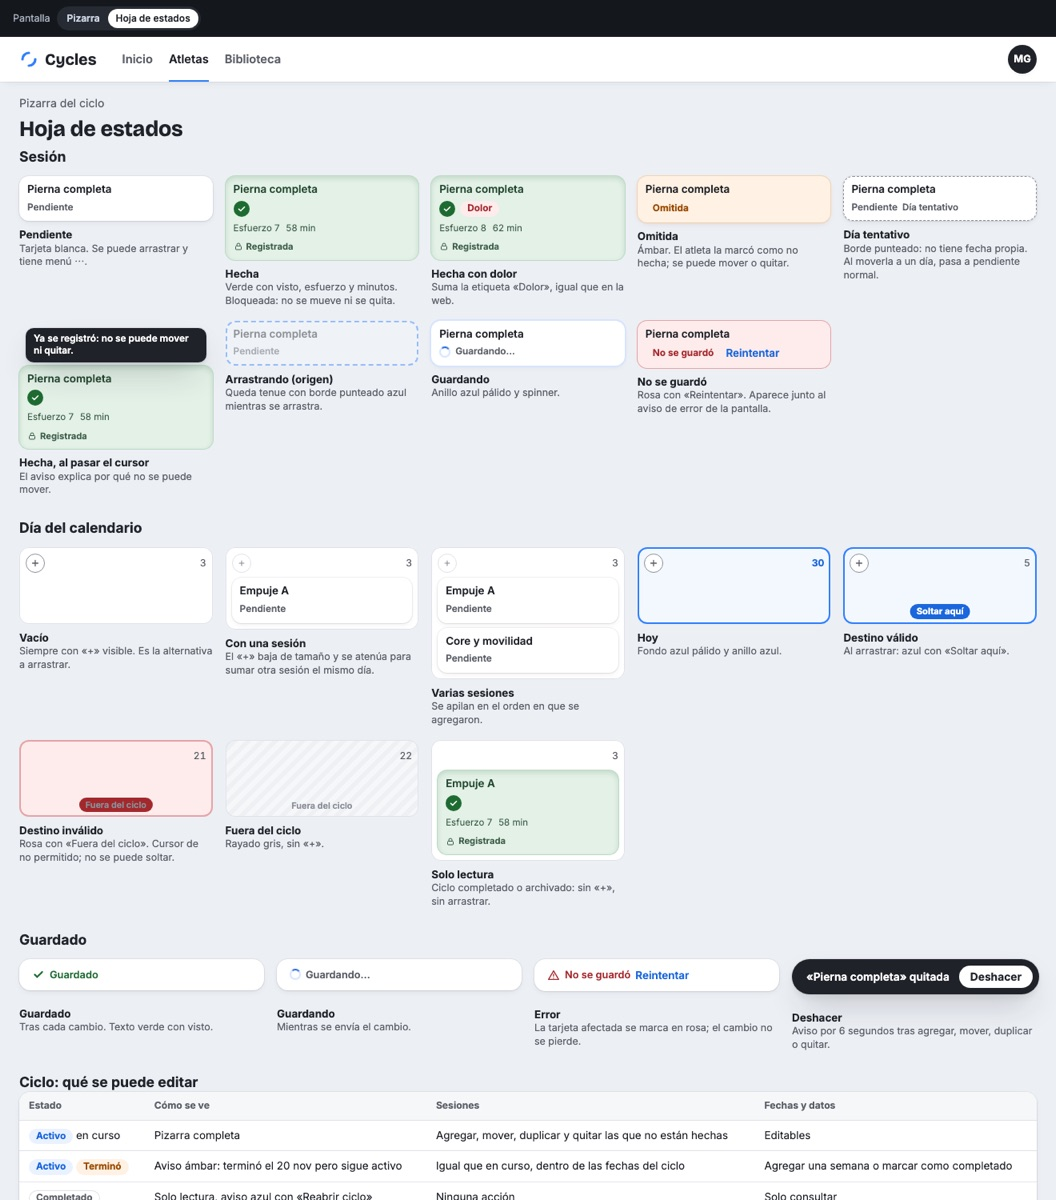
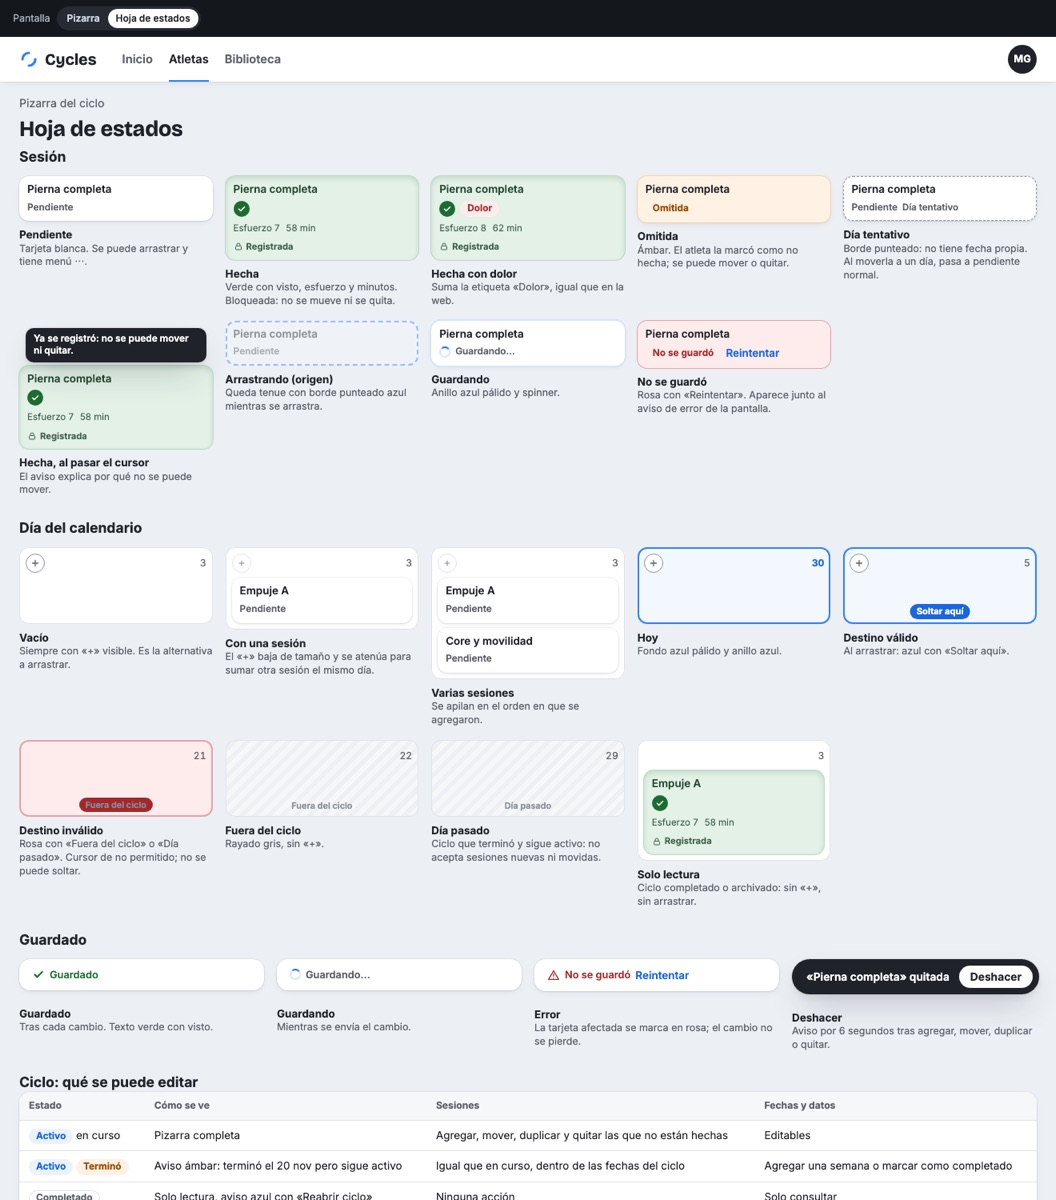
Aprueba la variante A de la pizarra y registra el borrado lógico y los días pasados (CYC-172)

diff --git a/docs/diseno/ciclos-pizarra/propuestas.html b/docs/diseno/ciclos-pizarra/propuestas.html
@@ -144,6 +144,8 @@ main{padding:16px 24px 64px}
 .dc.ok::after,.dc.bad::after{position:absolute;left:50%;bottom:6px;transform:translateX(-50%);font-size:.7rem;font-weight:700;border-radius:999px;padding:1px 8px;white-space:nowrap;pointer-events:none}
 .dc.ok::after{content:"Soltar aquí";background:var(--blue);color:#fff}
 .dc.bad::after{content:"Fuera del ciclo";background:var(--pain-ink);color:#fff}
+.dc[data-why=past].out::after,.dc[data-why=past].bad::after{content:"Día pasado"}
+.dc.has.out::after{display:none}
 .dc.out::after{content:"Fuera del ciclo";position:absolute;left:50%;bottom:6px;transform:translateX(-50%);font-size:.68rem;font-weight:600;color:var(--ctl);white-space:nowrap}
 .dc.oksel{background:var(--b50);box-shadow:inset 0 0 0 2px var(--brand)}
 
@@ -334,13 +336,13 @@ function sesCard(s,o={}){
   return `<div class="${cls}" ${drag?`draggable="true" data-ses="${s.id}"`:''} tabindex="0" role="group" aria-label="${s.n}, ${st2}"><div class="nr"><b>${s.n}</b>${menu}</div><div class="st">${st}</div>${facts}${lock}</div>`;
 }
 function dayCell(w,d,ov={}){
-  const i=idx(w,d), out=i>endIdx, list=sessions().filter(s=>s.w===w&&s.d===d);
+  const i=idx(w,d), past=S.ciclo==='vencido'&&i<=endIdx, out=i>endIdx||past, list=sessions().filter(s=>s.w===w&&s.d===d);
   const x=dt(i);
   const dragging=S.estado==='arrastrando';
-  const cls=['dc',i===TODAY&&'today',out&&!(dragging)&&'out',out&&dragging&&'bad out',ro()&&'ro',ov.ok&&'ok'].filter(Boolean).join(' ');
+  const cls=['dc',i===TODAY&&'today',out&&!(dragging)&&'out',out&&dragging&&'bad out',ro()&&'ro',list.length&&'has',ov.ok&&'ok'].filter(Boolean).join(' ');
   const plus=(out||ro())?'':`<button class="plus${list.length?' faint':''}" data-add="${w}:${d}" aria-haspopup="dialog" aria-expanded="${S.ver==='agregar'&&S.ctx.w===w&&S.ctx.d===d}" aria-label="${list.length?'Agregar otra rutina':'Agregar rutina'} el ${DOWL[d]} ${x.getDate()}">${I.plus}</button>`;
   const cards=list.map(s=>sesCard(s,{lift:dragging&&s.id==='s8',save:S.estado==='guardando'&&s.id==='s4',fail:S.estado==='error'&&s.id==='s8'})).join('');
-  return `<div class="${cls}" data-cell="${w}:${d}" data-out="${out?1:0}"><div class="top">${plus||'<span></span>'}<span class="dn">${x.getDate()}</span></div><div class="cards">${cards}</div></div>`;
+  return `<div class="${cls}" data-cell="${w}:${d}" data-out="${out?1:0}" data-why="${past?'past':'out'}"><div class="top">${plus||'<span></span>'}<span class="dn">${x.getDate()}</span></div><div class="cards">${cards}</div></div>`;
 }
 function weekRow(w){
   const list=sessions().filter(s=>s.w===w), n=list.length, h=list.filter(s=>s.st==='hecha').length;
@@ -455,8 +457,9 @@ function catalogo(){
    ${fig(cell('',topPlus(true)+`<div class="cards">${c({n:'Empuje A'})}${c({n:'Core y movilidad'})}</div>`),'Varias sesiones','Se apilan en el orden en que se agregaron.')}
    ${fig(cell('today',`<div class="top"><button class="plus" aria-label="Agregar rutina">${I.plus}</button><span class="dn">30</span></div>`),'Hoy','Fondo azul pálido y anillo azul.')}
    ${fig(cell('ok',`<div class="top"><button class="plus">${I.plus}</button><span class="dn">5</span></div>`),'Destino válido','Al arrastrar: azul con «Soltar aquí».')}
-   ${fig(cell('bad out',`<div class="top"><span></span><span class="dn">21</span></div>`),'Destino inválido','Rosa con «Fuera del ciclo». Cursor de no permitido; no se puede soltar.')}
+   ${fig(cell('bad out',`<div class="top"><span></span><span class="dn">21</span></div>`),'Destino inválido','Rosa con «Fuera del ciclo» o «Día pasado». Cursor de no permitido; no se puede soltar.')}
    ${fig(cell('out',`<div class="top"><span></span><span class="dn">22</span></div>`),'Fuera del ciclo','Rayado gris, sin «+».')}
+   ${fig(cell('out',`<div class="top"><span></span><span class="dn">29</span></div>`,'data-why="past"'),'Día pasado','Ciclo que terminó y sigue activo: no acepta sesiones nuevas ni movidas.')}
    ${fig(cell('ro',`<div class="top"><span></span><span class="dn">3</span></div><div class="cards">${c({n:'Empuje A',st:'hecha',esf:7,min:58})}</div>`),'Solo lectura','Ciclo completado o archivado: sin «+», sin arrastrar.')}
   </div>
   <h2>Guardado</h2><div class="cat" style="grid-template-columns:repeat(auto-fill,minmax(290px,1fr))">

diff --git a/docs/diseno/ciclos-pizarra/README.md b/docs/diseno/ciclos-pizarra/README.md
@@ -1,7 +1,7 @@
 ---
 type: design
 parent: "[[PRD-RutinasYProgramacion]]"
-status: proposed
+status: approved
 tags: [diseno, ciclos, pizarra, calendario, coach]
 created: 2026-10-28
 updated: 2026-10-28
@@ -9,7 +9,7 @@ updated: 2026-10-28
 
 # Edición de ciclos como pizarra (CYC-172)
 
-> **Propuesta de diseño, sin construir.** El calendario del ciclo se convierte en una **pizarra**: el coach arrastra rutinas a los días, mueve, duplica y quita sesiones, y crea rutinas nuevas sin salir de la ventana. **Es solo para el coach**: el atleta sigue viendo su ciclo semana a semana, sin arrastrar ni editar.
+> **Diseño aprobado el 2026-10-28 (variante A), sin construir.** El calendario del ciclo se convierte en una **pizarra**: el coach arrastra rutinas a los días, mueve, duplica y quita sesiones, y crea rutinas nuevas sin salir de la ventana. **Es solo para el coach**: el atleta sigue viendo su ciclo semana a semana, sin arrastrar ni editar.
 
 ## Cómo verla
 
@@ -26,9 +26,15 @@ En «Normal» la maqueta funciona de verdad: arrastra una rutina a un día, arra
 
 ## Decisiones tomadas (2026-10-28)
 
+0. **Variante A (panel lateral).** La B queda descartada y se deja en la maqueta solo como referencia.
+
 1. **La pizarra reemplaza la vista Ciclo** de la ficha del atleta (`/athletes/:id`), donde ya vive el calendario desde CYC-171. El panel de rutinas vive dentro de esa vista.
 2. **Autoguardado.** Cada gesto (soltar, mover, duplicar, quitar) se guarda al instante. Un indicador en el encabezado dice **Guardando… / Guardado / No se guardó (Reintentar)**, y cada cambio trae un aviso con **Deshacer** por 6 segundos. No hay botón Guardar.
 3. **Creador rápido de rutinas** en un cajón lateral, con lo mínimo (nombre, ejercicios, series y repeticiones). **Cualquier especificación adicional (peso, descanso, repeticiones en reserva) se captura en una ventana emergente** «Detalles del ejercicio», con los mismos campos y etiquetas del editor de rutinas de la web. Un enlace «Abrir en el editor completo» queda para todo lo demás. Un botón «Agrupar en bloque» deshabilitado con la etiqueta «Pronto» reserva el lugar de las superseries (CYC-108 y CYC-109).
+
+4. **Quitar una sesión es un borrado lógico.** La sesión se marca como quitada y deja de verse, pero no se destruye: **Deshacer** la restaura con todos sus ajustes de ejercicios. Una sesión quitada no aparece en ninguna lista (calendario del coach, «Hoy» y la app del atleta, seguimiento, avisos); su purga definitiva queda para la construcción (propuesta: pasadas 24 horas).
+5. **Un ciclo que terminó y sigue activo no acepta sesiones en días pasados.** Todos sus días salen con la etiqueta «Día pasado», sin «+», y no aceptan soltar. Para seguir planificando, el coach usa «Agregar una semana» o marca el ciclo como completado.
+6. **En tablet y táctil se edita con el «+» y el menú ⋯**; no se construye arrastre con el dedo. El arrastre es solo para ratón.
 
 ## La pantalla
 
@@ -58,9 +64,9 @@ En «Normal» la maqueta funciona de verdad: arrastra una rutina a un día, arra
 | **Sin arrastrar** | El «+» de cada día abre un popover con buscador de rutinas; elegir una la agrega. Funciona con teclado y táctil. Cada rutina del panel también se activa con Enter. |
 | **Mover una sesión** | Arrastrarla a otro día o semana, o menú ⋯ → «Mover a otro día…» (elige semana y día). |
 | **Duplicar** | Menú ⋯ → «Duplicar en otro día…». |
-| **Quitar** | Menú ⋯ → «Quitar de este día». Sin confirmación bloqueante: se quita y aparece el aviso con **Deshacer**. |
+| **Quitar** | Menú ⋯ → «Quitar de este día». Sin confirmación bloqueante: se quita (borrado lógico) y aparece el aviso con **Deshacer**, que la restaura. |
 | **Varias sesiones por día** | Se apilan en la celda en el orden en que se agregaron. El «+» pequeño agrega otra. |
-| **Soltar fuera del ciclo** | Los días fuera de Inicio–Fin salen rayados («Fuera del ciclo») y, al arrastrar, se tiñen de rosa y no aceptan la sesión. |
+| **Soltar fuera del ciclo** | Los días fuera de Inicio–Fin salen rayados («Fuera del ciclo») y, al arrastrar, se tiñen de rosa y no aceptan la sesión. En un ciclo que ya terminó, todos sus días son «Día pasado» y tampoco aceptan sesiones. |
 | **Otra semana** | Botón «Agregar una semana» bajo el calendario: mueve el fin del ciclo 7 días (avisa la nueva fecha) y tiene Deshacer. |
 | **Sesión hecha** | Bloqueada: no se arrastra, no tiene menú y su aviso dice «Ya se registró: no se puede mover ni quitar». |
 | **Crear rutina** | «Crear rutina nueva» abre el cajón (no cambia de página). «Guardar y usar» la agrega a la lista, lista para arrastrar. |
@@ -87,7 +93,7 @@ La pestaña **Hoja de estados** de la maqueta junta todos los estados visuales c
 | Estado | Cómo se ve | Sesiones | Fechas y datos |
 |---|---|---|---|
 | **Activo, en curso** | Pizarra completa | Agregar, mover, duplicar y quitar las que no están hechas | Editables |
-| **Activo, ya terminó** | Franja ámbar: «El ciclo terminó el 20 nov, pero sigue marcado como Activo» | Igual que en curso, dentro de las fechas | Botones «Marcar como completado» y «Agregar una semana» |
+| **Activo, ya terminó** | Franja ámbar: «El ciclo terminó el 20 nov, pero sigue marcado como Activo»; todos los días son «Día pasado» | Se pueden quitar y duplicar las pendientes, pero no agregar ni mover a días pasados | Botones «Marcar como completado» y «Agregar una semana» |
 | **Completado** | Solo lectura; franja azul con «Reabrir ciclo» | Ninguna acción | Solo consultar |
 | **Archivado** | Solo lectura; franja azul con «Reactivar ciclo» | Ninguna acción | Solo consultar |
 
@@ -122,19 +128,18 @@ Esto resuelve la incoherencia de hoy, donde el banner dice «El ciclo terminó»
 
 ## Preguntas abiertas
 
-1. **Variante:** A o B (se recomienda A).
-2. **Deshacer al quitar:** la sesión puede tener ajustes puntuales de ejercicios. ¿Se borra de verdad y «Deshacer» la vuelve a crear desde la rutina (se perderían esos ajustes) o se hace un borrado lógico durante unos segundos? Se recomienda lo segundo.
-3. **Ciclo que ya terminó y sigue activo:** ¿se permite soltar sesiones en días pasados? La propuesta lo permite, para ponerse al día.
-4. **Arrastre táctil en tablet:** ¿basta con el «+» y el menú, o se construye arrastre con el dedo (con una librería de arrastre o eventos propios)?
-5. **Duplicar una sesión ajustada:** ¿copia la sesión tal como quedó (con sus ejercicios modificados) o vuelve a partir de la rutina? La propuesta es copiar la sesión.
-6. **Editar una rutina desde la pizarra:** ¿se abre el mismo cajón con la rutina cargada? Se recomienda que sí; cambiarla afecta solo a las sesiones futuras.
+Las cuatro primeras se cerraron el 2026-10-28 (ver «Decisiones tomadas»). Quedan para la construcción:
+
+1. **Duplicar una sesión ajustada:** ¿copia la sesión tal como quedó (con sus ejercicios modificados) o vuelve a partir de la rutina? La propuesta es copiar la sesión.
+2. **Editar una rutina desde la pizarra:** ¿se abre el mismo cajón con la rutina cargada? Se recomienda que sí; cambiarla afecta solo a las sesiones futuras.
+3. **Purga del borrado lógico:** cuánto tiempo se conserva una sesión quitada antes de borrarse (propuesta: 24 horas) y cómo se limpia.
 
 ## Qué cambia para construirlo (solo la lista; nada de esto está hecho)
 
 **API**
 
 - **Mover una sesión:** hoy `PATCH /sessions/:id` no cambia la semana ni reordena los espacios. Debe aceptar una nueva `scheduledDate`, recalcular la semana y repartir los espacios con la misma regla que la creación por día (`reassignSlots`).
-- **Quitar una sesión:** hoy `DELETE /sessions/:id` responde 409 si tiene ejercicios (hay que quitarlos antes). Hace falta borrarla junto con sus ejercicios cuando no tiene registros, o un borrado lógico para el «Deshacer».
+- **Quitar una sesión (borrado lógico):** hoy `DELETE /sessions/:id` responde 409 si tiene ejercicios. Se agrega un campo `deletedAt` en la sesión: quitar lo marca, **Deshacer** lo limpia (p. ej. `POST /sessions/:id/restore`) y todas las consultas lo excluyen (calendario del coach, `/me/today`, seguimiento, avisos y resumen de actividad). Una tarea programada purga las sesiones quitadas pasado el tiempo definido. Hace falta una migración.
 - **Proteger las sesiones hechas en el servidor:** rechazar mover o borrar una sesión con registro vigente (confirmar si ya ocurre y cubrirlo con pruebas).
 - **Duplicar:** crear con `POST /cycles/:id/sessions` (rutina y fecha) ya sirve; copiar una sesión ajustada pide un endpoint nuevo, p. ej. `POST /sessions/:id/duplicate` con la fecha destino.
 - **Agregar una semana:** `PATCH /cycles/:id` con una nueva `endDate` ya existe.
@@ -144,7 +149,7 @@ Esto resuelve la incoherencia de hoy, donde el banner dice «El ciclo terminó»
 
 - Reemplazar `CycleCalendarView` y `PlanCalendar` por la pizarra; el panel de rutinas, el creador en cajón y la ventana de detalles son componentes nuevos, reutilizando el selector de ejercicios del editor de rutinas.
 - Un solo lugar para las operaciones (agregar, mover, duplicar, quitar) con su función inversa para «Deshacer» y el indicador de guardado, apoyado en react-query (actualización optimista con reversión si falla).
-- Arrastrar y soltar: HTML5 nativo para ratón; decidir la solución para táctil (pregunta 4).
+- Arrastrar y soltar: HTML5 nativo para ratón. En táctil se usa el «+» y el menú ⋯ (decidido).
 - Un cambio de estado del ciclo («Marcar como completado», «Reabrir») usa `PATCH /cycles/:id` con `status`.
 
 ## Fuera de alcance
